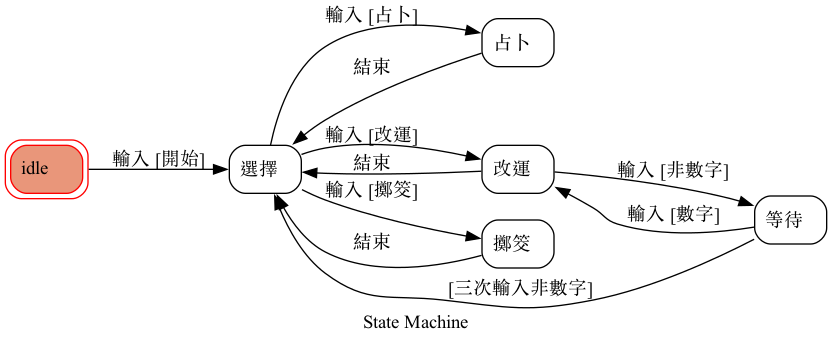
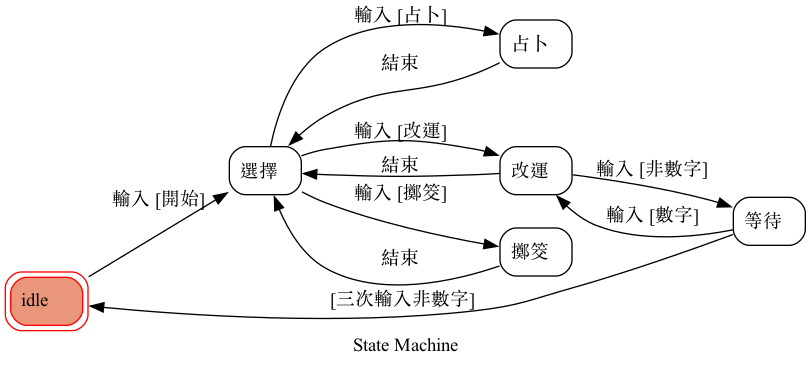
Add files via upload

diff --git a/app.py b/app.py
@@ -165,12 +165,15 @@ def callback():
                 sm.switch_to_state1()
             except:
                 sm.switch_to_waiting()
-                if sm.count >= 3:
-                    reply = "事不過三，心不誠則不靈。既然你如此不甘不願，那也不必強求。"
-                    sm.clear_count()
-                    sm.switch_to_state1()
-                else:
-                    reply = "請輸入數字！"
+                reply = "請輸入數字！"
+        elif sm.states == 21:
+            if sm.count >= 3:
+                reply = "事不過三，心不誠則不靈。既然你如此不甘不願，那也不必強求。"
+                sm.count = 0
+                sm.switch_to_state1()
+            else:
+                sm.count += 1
+                reply = "請輸入數字！"
         elif sm.states == 4:  #擲筊
             luck = random.randint(1, 101)
             if luck > 50:

diff --git a/fsm.py b/fsm.py
@@ -51,7 +51,7 @@ machine = GraphMachine(model=model, states=['idle', '選擇', '占卜', '改運'
                            {'trigger': "輸入", 'source': '選擇', 'dest': '改運', 'conditions': "改運"},
                            {'trigger': "輸入", 'source': '選擇', 'dest': '擲筊', 'conditions': "擲筊"},
                            {'trigger': "輸入", 'source': '改運', 'dest': '等待', 'conditions': "非數字"},
-                           {'trigger': "", 'source': '等待', 'dest': '選擇', 'conditions': "三次輸入非數字"},
+                           {'trigger': "", 'source': '等待', 'dest': 'idle', 'conditions': "三次輸入非數字"},
                            {'trigger': "輸入", 'source': '等待', 'dest': '改運', 'conditions': "數字"},
                            {'trigger': "結束", 'source': ['占卜', '改運', '擲筊'], 'dest': '選擇'}
                        ],

diff --git a/utils.py b/utils.py
@@ -33,9 +33,10 @@ class state_machine():
     def switch_to_waiting(self):
         self.states = 21
         self.count += 1
+    
+    #def clear_count(self):
+        #self.count = 0
         
-    def clear_count(self):
-        self.count = 0
         
 
 """
